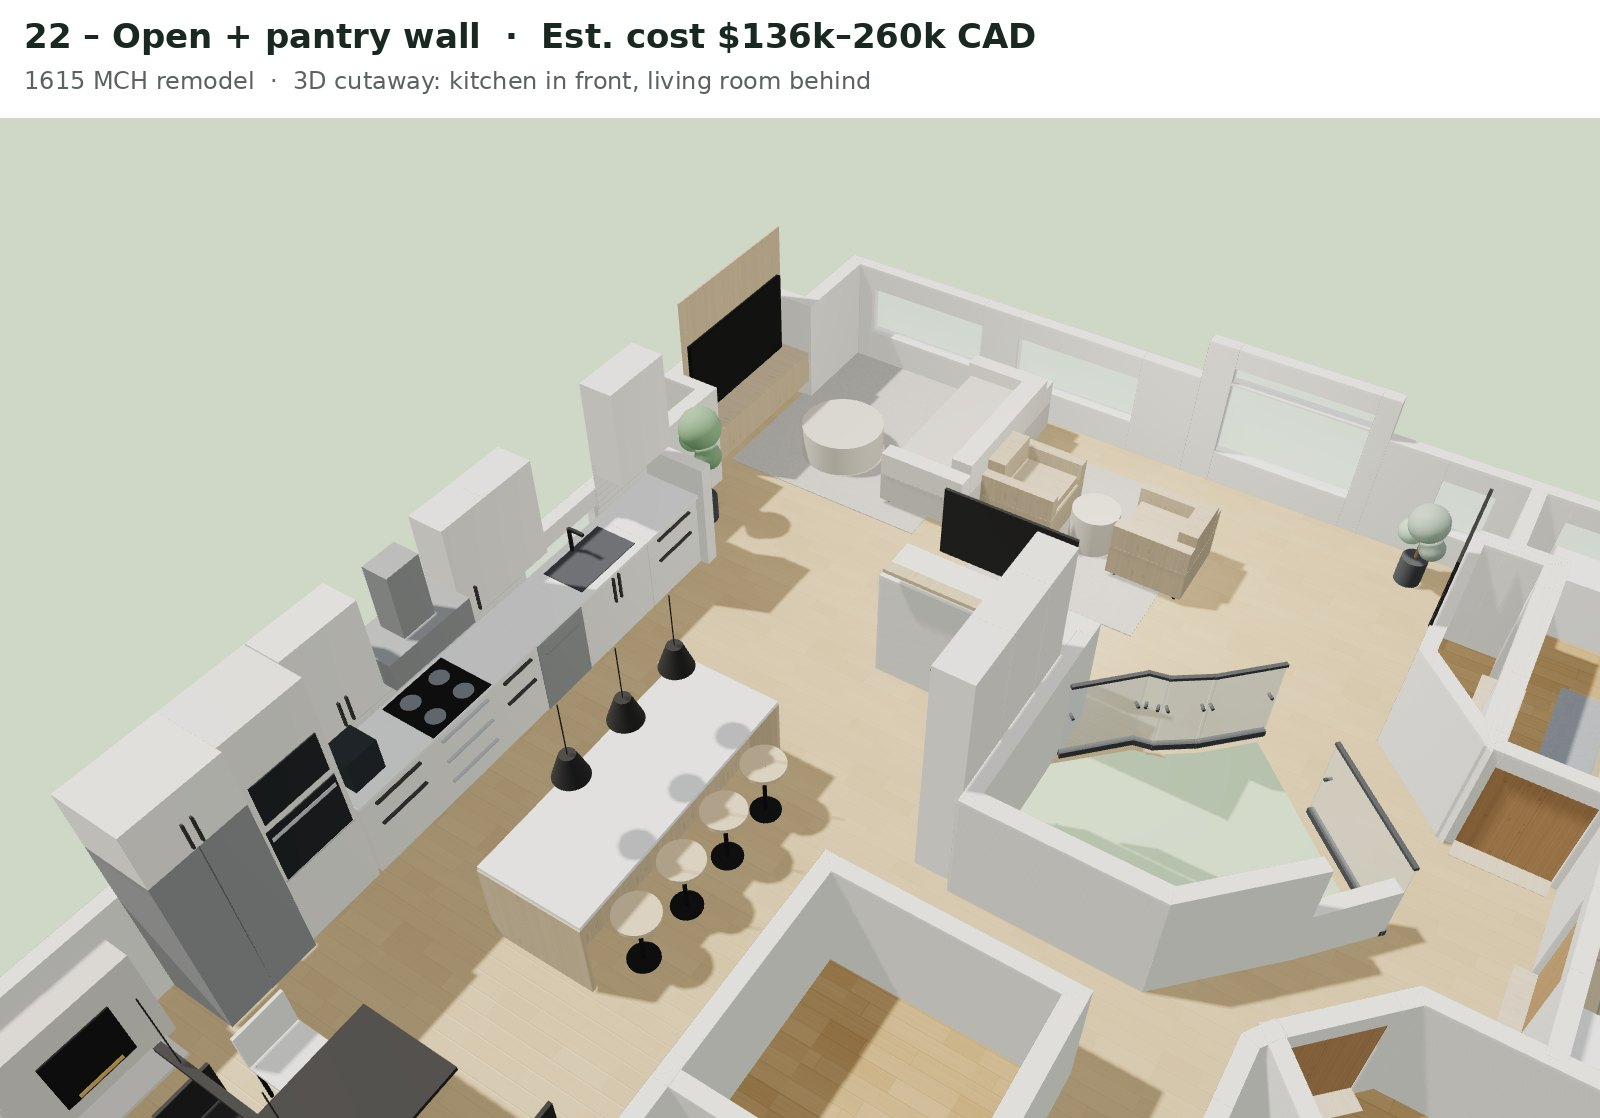
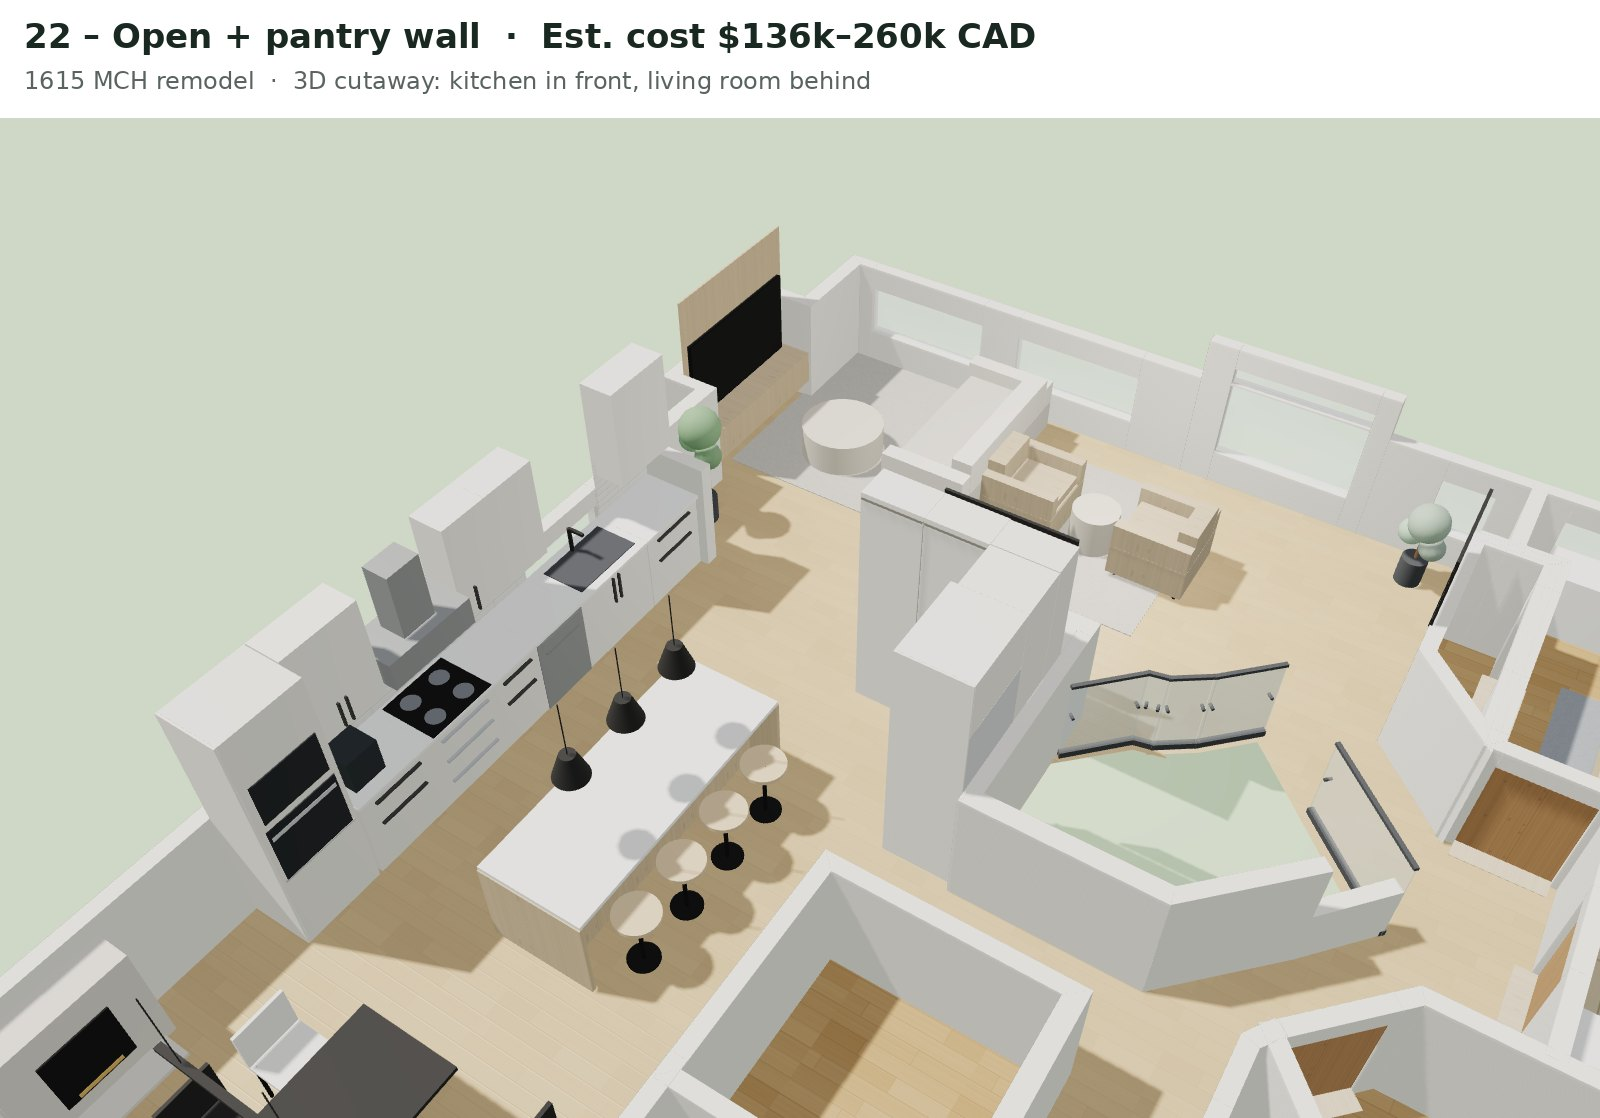
Concept 22: fridge + pantry walls (fridge and pull-out pantry on the stair wall, pantry on the chase wall, dining end open) as the default fridge option
Claude-Session: https://claude.ai/code/session_01FZodxpykm6DXmAniNRJHHf

Changed region(s): [[0.0312, 0.6386, 0.3125, 0.9428], [0.5312, 0.4258, 0.6562, 0.7603], [0.6562, 0.5474, 0.6875, 0.5778]]

diff --git a/js/data/concepts/v26.js b/js/data/concepts/v26.js
@@ -584,7 +584,7 @@ DATA["v26"] = {
   "treadColor": 14270356,
   "stepLights": true,
   "variants": [
-    {"id": "fridge", "label": "Fridge", "choose": 0, "options": [{"name": "Dining end", "note": "Fridge on the kitchen wall between the dining-room fireplace and the oven tower; three pull-outs in the pantry wall. The oven tower has the coffee counter beside it; the fridge has no counter right beside it, and the end dining chair is about 65 cm from it.", "lay": []}, {"name": "In the pantry wall", "note": "Fridge (counter-depth French-door) at the end of the pantry wall, against the fireplace chase, with two 43 cm pull-outs beside it; a full-height pantry cabinet takes the old fridge spot, so the dining end is fireplace, tall pantry, oven tower, coffee counter. Frees the dining chairs and the fireplace side; the fridge stands about 30 cm proud of the pull-outs and the island corner is about 1.3 m away for setting things down.", "drop": {"lay": ["Fridge", "Cabinet above fridge", "Pantry wall: full-height", "Oak shelf on the kitchen face"], "layAt": [["box", 1084, 324], ["box", 1049.5, 320], ["box", 1049.5, 328], ["box", 689.3, 750], ["box", 689.3, 810], ["box", 689.6, 720], ["box", 689.6, 780], ["box", 689.6, 835]]}, "lay": [["level-e7276441-09e6-40e5-b0fe-e49e557499fc", "box", 1087, 324, 84, 60, 242.8, 0, 1.5707963267948966, 15986404, "Tall pantry cabinet (where the fridge was)"], ["level-e7276441-09e6-40e5-b0fe-e49e557499fc", "box", 1056, 318, 1.8, 3, 40, 95, 1.5707963267948966, 12173252, ""], ["level-e7276441-09e6-40e5-b0fe-e49e557499fc", "box", 1056, 330, 1.8, 3, 40, 95, 1.5707963267948966, 12173252, ""], ["level-e7276441-09e6-40e5-b0fe-e49e557499fc", "box", 671, 711.5, 43, 36, 242.8, 0, 4.71238898038469, 15986404, "Pantry wall: full-height pull-out pantry, 43 cm wide, 36 cm deep"], ["level-e7276441-09e6-40e5-b0fe-e49e557499fc", "box", 689.6, 711.5, 41, 0.8, 2.5, 236, 4.71238898038469, 7301730, ""], ["level-e7276441-09e6-40e5-b0fe-e49e557499fc", "box", 671, 754.5, 43, 36, 242.8, 0, 4.71238898038469, 15986404, "Pantry wall: full-height pull-out pantry, 43 cm wide, 36 cm deep"], ["level-e7276441-09e6-40e5-b0fe-e49e557499fc", "box", 689.6, 754.5, 41, 0.8, 2.5, 236, 4.71238898038469, 7301730, ""], ["level-e7276441-09e6-40e5-b0fe-e49e557499fc", "box", 689.3, 733, 0.8, 0.6, 238, 2, 4.71238898038469, 10262156, ""], ["level-e7276441-09e6-40e5-b0fe-e49e557499fc", "box", 686, 818, 84, 66, 185, 0, 4.71238898038469, 13225166, "Fridge: counter-depth French-door (end of the pantry wall)"], ["level-e7276441-09e6-40e5-b0fe-e49e557499fc", "box", 719.2, 818, 84, 0.6, 185, 0, 4.71238898038469, 10133670, ""], ["level-e7276441-09e6-40e5-b0fe-e49e557499fc", "box", 686, 818, 84, 66, 57.8, 185, 4.71238898038469, 15986404, "Cabinet above fridge"], ["level-e7276441-09e6-40e5-b0fe-e49e557499fc", "box", 719.8, 814, 1.8, 3, 60, 95, 4.71238898038469, 12173252, ""], ["level-e7276441-09e6-40e5-b0fe-e49e557499fc", "box", 719.8, 822, 1.8, 3, 60, 95, 4.71238898038469, 12173252, ""], ["level-e7276441-09e6-40e5-b0fe-e49e557499fc", "box", 790, 856, 90, 12, 4, 140, 3.141592653589793, 13150330, "Oak shelf on the kitchen face of the chase"]]}]},
+    {"id": "fridge", "label": "Fridge", "choose": 3, "options": [{"name": "Dining end", "note": "Fridge on the kitchen wall between the dining-room fireplace and the oven tower; three pull-outs in the pantry wall. The oven tower has the coffee counter beside it; the fridge has no counter right beside it, and the end dining chair is about 65 cm from it.", "lay": []}, {"name": "In the pantry wall", "note": "Fridge (counter-depth French-door) at the end of the pantry wall, against the fireplace chase, with two 43 cm pull-outs beside it; a full-height pantry cabinet takes the old fridge spot, so the dining end is fireplace, tall pantry, oven tower, coffee counter. Frees the dining chairs and the fireplace side; the fridge stands about 30 cm proud of the pull-outs and the island corner is about 1.3 m away for setting things down.", "drop": {"lay": ["Fridge", "Cabinet above fridge", "Pantry wall: full-height", "Oak shelf on the kitchen face"], "layAt": [["box", 1084, 324], ["box", 1049.5, 320], ["box", 1049.5, 328], ["box", 689.3, 750], ["box", 689.3, 810], ["box", 689.6, 720], ["box", 689.6, 780], ["box", 689.6, 835]]}, "lay": [["level-e7276441-09e6-40e5-b0fe-e49e557499fc", "box", 1087, 324, 84, 60, 242.8, 0, 1.5707963267948966, 15986404, "Tall pantry cabinet (where the fridge was)"], ["level-e7276441-09e6-40e5-b0fe-e49e557499fc", "box", 1056, 318, 1.8, 3, 40, 95, 1.5707963267948966, 12173252, ""], ["level-e7276441-09e6-40e5-b0fe-e49e557499fc", "box", 1056, 330, 1.8, 3, 40, 95, 1.5707963267948966, 12173252, ""], ["level-e7276441-09e6-40e5-b0fe-e49e557499fc", "box", 671, 711.5, 43, 36, 242.8, 0, 4.71238898038469, 15986404, "Pantry wall: full-height pull-out pantry, 43 cm wide, 36 cm deep"], ["level-e7276441-09e6-40e5-b0fe-e49e557499fc", "box", 689.6, 711.5, 41, 0.8, 2.5, 236, 4.71238898038469, 7301730, ""], ["level-e7276441-09e6-40e5-b0fe-e49e557499fc", "box", 671, 754.5, 43, 36, 242.8, 0, 4.71238898038469, 15986404, "Pantry wall: full-height pull-out pantry, 43 cm wide, 36 cm deep"], ["level-e7276441-09e6-40e5-b0fe-e49e557499fc", "box", 689.6, 754.5, 41, 0.8, 2.5, 236, 4.71238898038469, 7301730, ""], ["level-e7276441-09e6-40e5-b0fe-e49e557499fc", "box", 689.3, 733, 0.8, 0.6, 238, 2, 4.71238898038469, 10262156, ""], ["level-e7276441-09e6-40e5-b0fe-e49e557499fc", "box", 686, 818, 84, 66, 185, 0, 4.71238898038469, 13225166, "Fridge: counter-depth French-door (end of the pantry wall)"], ["level-e7276441-09e6-40e5-b0fe-e49e557499fc", "box", 719.2, 818, 84, 0.6, 185, 0, 4.71238898038469, 10133670, ""], ["level-e7276441-09e6-40e5-b0fe-e49e557499fc", "box", 686, 818, 84, 66, 57.8, 185, 4.71238898038469, 15986404, "Cabinet above fridge"], ["level-e7276441-09e6-40e5-b0fe-e49e557499fc", "box", 719.8, 814, 1.8, 3, 60, 95, 4.71238898038469, 12173252, ""], ["level-e7276441-09e6-40e5-b0fe-e49e557499fc", "box", 719.8, 822, 1.8, 3, 60, 95, 4.71238898038469, 12173252, ""], ["level-e7276441-09e6-40e5-b0fe-e49e557499fc", "box", 790, 856, 90, 12, 4, 140, 3.141592653589793, 13150330, "Oak shelf on the kitchen face of the chase"]]}, {"name": "Fridge + counter in the pantry wall", "note": "The stair-side wall becomes one flush, full-depth run: the counter-depth fridge at the hallway end (finished end panel on the hallway side), then an 86 cm pantry hutch: drawers and a quartz counter right beside the fridge for setting things down, lit by an under-cabinet LED, with pantry cabinets above to the ceiling. A full-height pantry cabinet takes the old fridge spot at the dining end. The fridge doors face the island end; about 1.2 m of walkway stays in front of the run.", "drop": {"lay": ["Fridge", "Cabinet above fridge", "Pantry wall: full-height", "Oak shelf on the kitchen face"], "layAt": [["box", 1084, 324], ["box", 1049.5, 320], ["box", 1049.5, 328], ["box", 689.3, 750], ["box", 689.3, 810], ["box", 689.6, 720], ["box", 689.6, 780], ["box", 689.6, 835]]}, "lay": [["level-e7276441-09e6-40e5-b0fe-e49e557499fc", "box", 1087, 324, 84, 60, 242.8, 0, 1.5707963267948966, 15986404, "Tall pantry cabinet (where the fridge was)"], ["level-e7276441-09e6-40e5-b0fe-e49e557499fc", "box", 1056, 318, 1.8, 3, 40, 95, 1.5707963267948966, 12173252, ""], ["level-e7276441-09e6-40e5-b0fe-e49e557499fc", "box", 1056, 330, 1.8, 3, 40, 95, 1.5707963267948966, 12173252, ""], ["level-e7276441-09e6-40e5-b0fe-e49e557499fc", "box", 686, 732, 84, 66, 185, 0, 4.71238898038469, 13225166, "Fridge: counter-depth French-door (pantry wall, hallway end)"], ["level-e7276441-09e6-40e5-b0fe-e49e557499fc", "box", 719.2, 732, 84, 0.6, 185, 0, 4.71238898038469, 10133670, ""], ["level-e7276441-09e6-40e5-b0fe-e49e557499fc", "box", 686, 732, 84, 66, 57.8, 185, 4.71238898038469, 15986404, "Cabinet above fridge"], ["level-e7276441-09e6-40e5-b0fe-e49e557499fc", "box", 719.8, 728, 1.8, 3, 60, 95, 4.71238898038469, 12173252, ""], ["level-e7276441-09e6-40e5-b0fe-e49e557499fc", "box", 719.8, 736, 1.8, 3, 60, 95, 4.71238898038469, 12173252, ""], ["level-e7276441-09e6-40e5-b0fe-e49e557499fc", "box", 686, 689, 2, 66, 242.8, 0, 4.71238898038469, 15986404, "Finished end panel (hallway side of the fridge)"], ["level-e7276441-09e6-40e5-b0fe-e49e557499fc", "box", 683, 817, 86, 60, 86, 0, 4.71238898038469, 15394524, "Pantry hutch: drawers beside the fridge"], ["level-e7276441-09e6-40e5-b0fe-e49e557499fc", "box", 684.5, 817, 88, 63, 3, 86, 4.71238898038469, 16250869, "Pantry hutch: quartz counter (landing beside the fridge)"], ["level-e7276441-09e6-40e5-b0fe-e49e557499fc", "box", 713.5, 817, 60, 3, 1.8, 76, 4.71238898038469, 12173252, ""], ["level-e7276441-09e6-40e5-b0fe-e49e557499fc", "box", 713.5, 817, 60, 3, 1.8, 50, 4.71238898038469, 12173252, ""], ["level-e7276441-09e6-40e5-b0fe-e49e557499fc", "box", 713.5, 817, 60, 3, 1.8, 24, 4.71238898038469, 12173252, ""], ["level-e7276441-09e6-40e5-b0fe-e49e557499fc", "box", 671, 817, 86, 36, 102.8, 140, 4.71238898038469, 15986404, "Pantry hutch: pantry cabinets above, to the ceiling"], ["level-e7276441-09e6-40e5-b0fe-e49e557499fc", "box", 689.5, 813, 1.8, 3, 30, 144, 4.71238898038469, 12173252, ""], ["level-e7276441-09e6-40e5-b0fe-e49e557499fc", "box", 689.5, 821, 1.8, 3, 30, 144, 4.71238898038469, 12173252, ""], ["level-e7276441-09e6-40e5-b0fe-e49e557499fc", "led", 688, 817, 82, 4, 0.8, 138.8, 4.71238898038469, 16777215, "Pantry hutch: under-cabinet LED"], ["level-e7276441-09e6-40e5-b0fe-e49e557499fc", "box", 654.5, 817, 86, 1, 54, 89, 4.71238898038469, 16250869, ""], ["level-e7276441-09e6-40e5-b0fe-e49e557499fc", "box", 790, 856, 90, 12, 4, 140, 3.141592653589793, 13150330, "Oak shelf on the kitchen face of the chase"]]}, {"name": "Fridge + pantry walls", "note": "The stair-side wall is the counter-depth fridge at the hallway end plus a 52 cm full-height pull-out pantry (60 cm deep, flush with the fridge). The pantry wraps the corner onto the kitchen face of the fireplace chase: two more full-height pull-outs (about 58 cm each, 36 cm deep), with about 1.1 m clear to the end of the island, which serves as the landing space for the fridge. The small corner between them is closed off so every pull-out slides out freely. At the dining end the old fridge spot between the dining-room fireplace and the oven tower is left open (finished end panel on the tower).", "drop": {"lay": ["Fridge", "Cabinet above fridge", "Pantry wall: full-height", "Oak shelf on the kitchen face"], "layAt": [["box", 1084, 324], ["box", 1049.5, 320], ["box", 1049.5, 328], ["box", 689.3, 750], ["box", 689.3, 810], ["box", 689.6, 720], ["box", 689.6, 780], ["box", 689.6, 835]]}, "lay": [["level-e7276441-09e6-40e5-b0fe-e49e557499fc", "box", 686, 732, 84, 66, 185, 0, 4.71238898038469, 13225166, "Fridge: counter-depth French-door (pantry wall, hallway end)"], ["level-e7276441-09e6-40e5-b0fe-e49e557499fc", "box", 719.2, 732, 84, 0.6, 185, 0, 4.71238898038469, 10133670, ""], ["level-e7276441-09e6-40e5-b0fe-e49e557499fc", "box", 686, 732, 84, 66, 57.8, 185, 4.71238898038469, 15986404, "Cabinet above fridge"], ["level-e7276441-09e6-40e5-b0fe-e49e557499fc", "box", 719.8, 728, 1.8, 3, 60, 95, 4.71238898038469, 12173252, ""], ["level-e7276441-09e6-40e5-b0fe-e49e557499fc", "box", 719.8, 736, 1.8, 3, 60, 95, 4.71238898038469, 12173252, ""], ["level-e7276441-09e6-40e5-b0fe-e49e557499fc", "box", 686, 689, 2, 66, 242.8, 0, 4.71238898038469, 15986404, "Finished end panel (hallway side of the fridge)"], ["level-e7276441-09e6-40e5-b0fe-e49e557499fc", "box", 683, 800, 52, 60, 242.8, 0, 4.71238898038469, 15986404, "Pantry wall: full-height pull-out pantry beside the fridge, 52 cm wide, 60 cm deep"], ["level-e7276441-09e6-40e5-b0fe-e49e557499fc", "box", 713.4, 800, 50, 0.8, 2.5, 236, 4.71238898038469, 7301730, ""], ["level-e7276441-09e6-40e5-b0fe-e49e557499fc", "box", 683, 844, 34, 60, 242.8, 0, 4.71238898038469, 15986404, "Blind corner (closed)"], ["level-e7276441-09e6-40e5-b0fe-e49e557499fc", "box", 1087, 365, 2, 60, 242.8, 0, 1.5707963267948966, 15986404, "Finished end panel (oven tower, dining side; the old fridge spot is left open)"], ["level-e7276441-09e6-40e5-b0fe-e49e557499fc", "box", 742.25, 844, 58.5, 36, 242.8, 0, 3.141592653589793, 15986404, "Corner pantry: full-height pull-out, 58 cm wide, 36 cm deep (chase wall)"], ["level-e7276441-09e6-40e5-b0fe-e49e557499fc", "box", 742.25, 825.6, 56.5, 0.8, 2.5, 236, 3.141592653589793, 7301730, ""], ["level-e7276441-09e6-40e5-b0fe-e49e557499fc", "box", 800.75, 844, 58.5, 36, 242.8, 0, 3.141592653589793, 15986404, "Corner pantry: full-height pull-out, 58 cm wide, 36 cm deep (chase wall)"], ["level-e7276441-09e6-40e5-b0fe-e49e557499fc", "box", 800.75, 825.6, 56.5, 0.8, 2.5, 236, 3.141592653589793, 7301730, ""], ["level-e7276441-09e6-40e5-b0fe-e49e557499fc", "box", 771.5, 825.4, 0.6, 0.8, 238, 2, 3.141592653589793, 10262156, ""]]}]},
     {"id": "living", "label": "Living room", "choose": 0, "options": [{"name": "Sofa + 2 chairs", "note": "Recommended with the TV in the nook: the sofa faces the TV (about 2.7 m from your eyes), and a pair of fireside chairs face each other across a small table in front of the fireplace, a classic conversation spot. The walkway from the stairs to the kitchen stays about 1 m wide.", "lay": [["level-e7276441-09e6-40e5-b0fe-e49e557499fc", "sofa", 901.5, 1175, 210, 95, 80, 0, 4.71238898038469, 14998733, "Sofa facing the TV"], ["level-e7276441-09e6-40e5-b0fe-e49e557499fc", "round", 1030, 1125, 90, 90, 38, 0, 0, 13352873, "Coffee table"], ["level-e7276441-09e6-40e5-b0fe-e49e557499fc", "rug", 1010, 1170, 250, 230, 1, 0.5, 1.5707963267948966, 14077890, ""], ["level-e7276441-09e6-40e5-b0fe-e49e557499fc", "arm", 660, 1135, 80, 80, 80, 0, 4.71238898038469, 12032628, "Fireside chair"], ["level-e7276441-09e6-40e5-b0fe-e49e557499fc", "arm", 805, 1135, 80, 80, 80, 0, 1.5707963267948966, 12032628, "Fireside chair"], ["level-e7276441-09e6-40e5-b0fe-e49e557499fc", "round", 732.5, 1135, 50, 50, 45, 0, 0, 13352873, "Side table"], ["level-e7276441-09e6-40e5-b0fe-e49e557499fc", "rug", 732.5, 1140, 180, 220, 1, 0.5, 0, 14077890, ""]]}, {"name": "Two sofas", "note": "Two 200 cm sofas face each other across a coffee table, centred on the fireplace (6 seats). The TV in the nook is side-on from both, so this suits occasional TV. A reading chair sits in the corner by the art.", "lay": [["level-e7276441-09e6-40e5-b0fe-e49e557499fc", "sofa", 604.5, 1175, 200, 95, 80, 0, 4.71238898038469, 14998733, "Sofa facing the fireplace"], ["level-e7276441-09e6-40e5-b0fe-e49e557499fc", "sofa", 864.5, 1175, 200, 95, 80, 0, 1.5707963267948966, 14998733, "Sofa facing the fireplace"], ["level-e7276441-09e6-40e5-b0fe-e49e557499fc", "table", 734.55, 1175, 110, 60, 40, 0, 1.5707963267948966, 12094298, "Coffee table"], ["level-e7276441-09e6-40e5-b0fe-e49e557499fc", "rug", 734.55, 1170, 250, 300, 1, 0.5, 1.5707963267948966, 14077890, ""], ["level-e7276441-09e6-40e5-b0fe-e49e557499fc", "arm", 460, 1150, 80, 80, 80, 0, 4.71238898038469, 12032628, "Reading chair"], ["level-e7276441-09e6-40e5-b0fe-e49e557499fc", "round", 460, 1075, 45, 45, 55, 0, 0, 13352873, "Side table"]]}, {"name": "U-shaped", "note": "The two sofas joined by a 160 cm loveseat against the windows make a U open to the fireplace (8 seats, best for entertaining). The TV in the nook is side-on from the U, so this suits occasional TV.", "lay": [["level-e7276441-09e6-40e5-b0fe-e49e557499fc", "sofa", 604.5, 1170, 200, 95, 80, 0, 4.71238898038469, 14998733, "U-sofa: west side"], ["level-e7276441-09e6-40e5-b0fe-e49e557499fc", "sofa", 864.5, 1170, 200, 95, 80, 0, 1.5707963267948966, 14998733, "U-sofa: east side"], ["level-e7276441-09e6-40e5-b0fe-e49e557499fc", "sofa", 734.55, 1250, 160, 90, 80, 0, 3.141592653589793, 14998733, "U-sofa: back (window side)"], ["level-e7276441-09e6-40e5-b0fe-e49e557499fc", "table", 734.55, 1130, 80, 60, 40, 0, 1.5707963267948966, 12094298, "Coffee table"], ["level-e7276441-09e6-40e5-b0fe-e49e557499fc", "rug", 734.55, 1170, 250, 300, 1, 0.5, 1.5707963267948966, 14077890, ""], ["level-e7276441-09e6-40e5-b0fe-e49e557499fc", "arm", 460, 1150, 80, 80, 80, 0, 4.71238898038469, 12032628, "Reading chair"], ["level-e7276441-09e6-40e5-b0fe-e49e557499fc", "round", 460, 1075, 45, 45, 55, 0, 0, 13352873, "Side table"]]}]},
     {"id": "stair", "label": "Staircase", "choose": 0, "options": [{"name": "Glass + black rail", "note": "White-oak treads, frameless glass guard with a slim black top rail and shoe, and low step lights on every second riser. Lightest look, best for keeping the stair open to the room.", "set": {"stair": "glass"}}, {"name": "Black metal bars", "note": "White-oak treads with a slim black vertical-bar guard (bars about 10 cm apart, under the 10 cm code limit) and the same step lights. Warmer, more architectural, easier to keep clean than glass.", "set": {"stair": "bars"}}, {"name": "Oak slat screen", "note": "Floor-to-ceiling white-oak battens (gaps under 10 cm) replace the glass at the top of the stairwell, with a slim black handrail on the inside and LED strips under every tread nosing. Warmest option: it adds wood, lets light through and partly screens the stair from the lounge.", "set": {"stair": "slats", "stepLights": "nosing"}}]},
     {"id": "stairtop", "label": "Stair top", "choose": 0, "options": [{"name": "Facing the hallway", "note": "As built: the upper flight runs straight and you step off facing the bedroom hallway.", "set": {"winderTop": false}}, {"name": "Winders: face the lounge", "note": "The last three steps become 30\u00b0 winders that turn 90\u00b0 to the left, so you arrive facing the lounge and windows. It stays inside the existing stair opening; the old arrival edge gets a guard. Winders are allowed in a house (turn 90\u00b0 max, 30\u00b0 or 45\u00b0 each); a contractor should confirm the framing and the tread depths on site.", "set": {"winderTop": true}}]}

diff --git a/index.html b/index.html
@@ -246,7 +246,7 @@
     <script src="js/data/concepts/v23.js?v=96337dd0"></script>
     <script src="js/data/concepts/v24.js?v=7757aad7"></script>
     <script src="js/data/concepts/v25.js?v=dd5d8565"></script>
-    <script src="js/data/concepts/v26.js?v=3951c707"></script>
+    <script src="js/data/concepts/v26.js?v=35173cf3"></script>
     <script src="js/data/shell.js?v=3ddc08fb"></script>
     <script src="js/core/scene.js?v=a3ca2179"></script>
     <script src="js/model/geometry.js?v=58035a67"></script>
